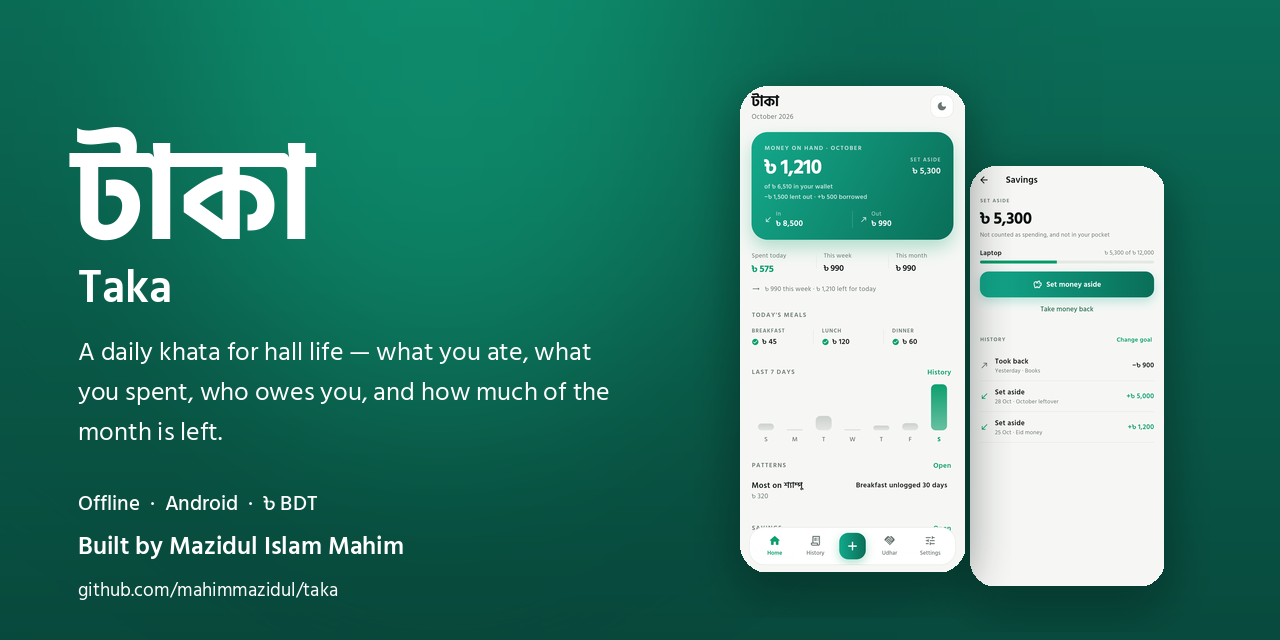
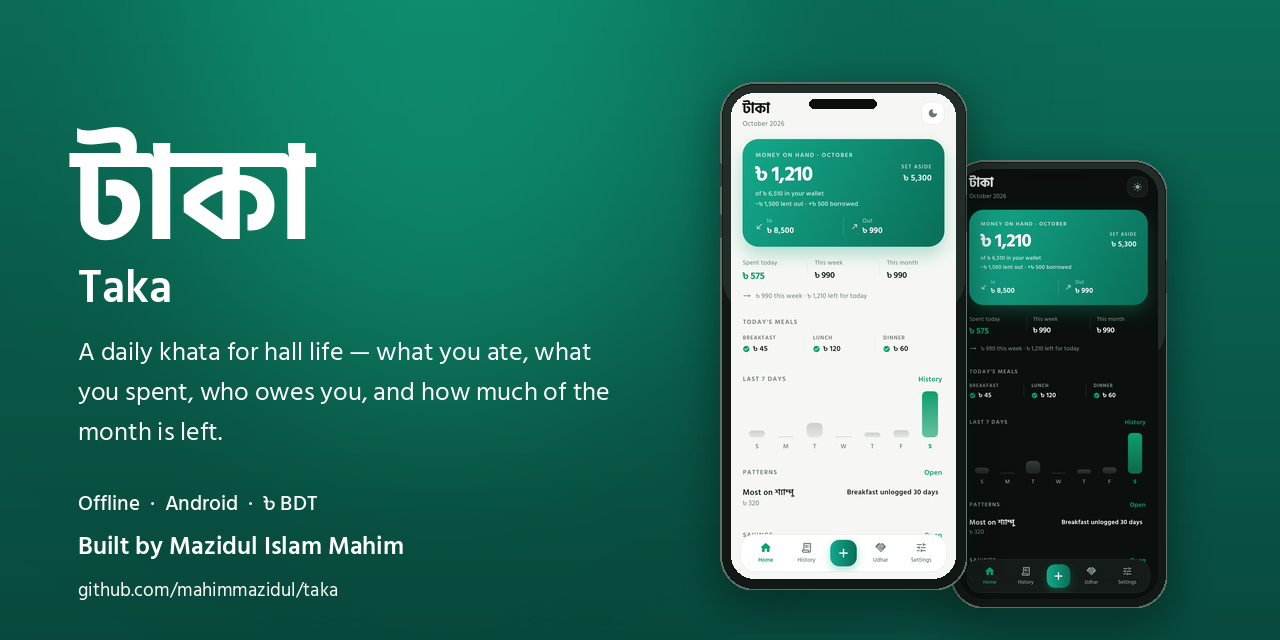
docs: মুদি as a group, and a social preview with real phones
README: মুদি becomes its own row in the category table with its seven items, the
"three standalone items" line becomes two, and the picker screenshot joins the
gallery. The changelog gains v1.11.0 and now runs 1.10.0 → 1.11.0 in order.

Social preview, drawn again because a bare rounded screenshot reads as a picture
of a screen rather than the handset it runs on:

- real phone bodies — near-black bezel with a highlight along the top edge, the
  island, side buttons, a clipped screen and a soft drop shadow;
- two of them, two modes: the bright card and the dark one side by side, so the
  card proves both without a caption claiming it;
- still generated from the committed goldens, so it can never show a UI the app
  does not have.

`python3 tool/make_social_preview.py`.

Changed region(s): [[0.5625, 0.125, 0.9375, 0.9688], [0.6875, 0.5, 0.7188, 0.5625]]

diff --git a/tool/make_social_preview.py b/tool/make_social_preview.py
@@ -59,26 +59,77 @@ def glow(canvas: Image.Image) -> None:
     canvas.alpha_composite(layer)
 
 
-def phone(path: pathlib.Path, height: int, radius: int) -> Image.Image:
-    """A screenshot in a rounded frame with a soft shadow, the way a phone looks."""
+def phone(path: pathlib.Path, height: int, radius: int = 34) -> Image.Image:
+    """A screenshot inside a phone body: bezel, island, side buttons, shadow.
+
+    A bare rounded screenshot on a green field reads as a picture of a screen; the
+    bezel and the island are what make it read as the handset the app runs on.
+    """
     shot = Image.open(path).convert("RGBA")
+    bezel = max(7, round(height * 0.022))
     width = round(shot.width * height / shot.height)
     shot = shot.resize((width, height), Image.LANCZOS)
 
-    mask = Image.new("L", shot.size, 0)
-    ImageDraw.Draw(mask).rounded_rectangle((0, 0, width, height), radius, fill=255)
-    shot.putalpha(mask)
+    body_w, body_h = width + bezel * 2, height + bezel * 2
+    body = Image.new("RGBA", (body_w, body_h), (0, 0, 0, 0))
+    draw = ImageDraw.Draw(body)
 
-    pad = 46
-    shadow = Image.new("RGBA", (width + pad * 2, height + pad * 2), (0, 0, 0, 0))
-    ImageDraw.Draw(shadow).rounded_rectangle(
-        (pad, pad + 16, pad + width, pad + height + 16),
-        radius,
-        fill=(4, 40, 32, 120),
+    # The handset: near-black, with a faint highlight along the top edge so the
+    # frame does not look like a flat sticker.
+    draw.rounded_rectangle((0, 0, body_w, body_h), radius, fill=(18, 24, 22, 255))
+    draw.rounded_rectangle(
+        (0, 0, body_w, body_h), radius, outline=(96, 112, 105, 255), width=2
     )
-    shadow = shadow.filter(ImageFilter.GaussianBlur(22))
-    shadow.alpha_composite(shot, (pad, pad))
-    return shadow
+    draw.rounded_rectangle(
+        (3, 3, body_w - 3, body_h * 0.45),
+        radius - 3,
+        fill=(34, 44, 40, 255),
+    )
+    draw.rounded_rectangle(
+        (3, body_h * 0.45, body_w - 3, body_h - 3),
+        radius - 3,
+        fill=(18, 24, 22, 255),
+    )
+
+    # Screen, clipped to its own rounding.
+    mask = Image.new("L", shot.size, 0)
+    screen_radius = max(6, radius - bezel)
+    ImageDraw.Draw(mask).rounded_rectangle(
+        (0, 0, width - 1, height - 1), screen_radius, fill=255
+    )
+    body.paste(shot, (bezel, bezel), mask)
+
+    # The island, and the two side buttons that make a phone a phone.
+    island_w, island_h = round(width * 0.30), max(8, round(height * 0.021))
+    island = Image.new("RGBA", (island_w, island_h), (0, 0, 0, 0))
+    ImageDraw.Draw(island).rounded_rectangle(
+        (0, 0, island_w - 1, island_h - 1), island_h // 2, fill=(10, 13, 12, 255)
+    )
+    body.alpha_composite(
+        island, (bezel + (width - island_w) // 2, bezel + round(height * 0.012))
+    )
+    for i, (side, length, offset) in enumerate(
+        (("left", 0.045, 0.16), ("left", 0.045, 0.26), ("right", 0.075, 0.22))
+    ):
+        btn_h = round(body_h * length)
+        btn_w = max(3, round(body_w * 0.012))
+        y = round(body_h * offset)
+        x = -btn_w + 1 if side == "left" else body_w - 1
+        draw.rounded_rectangle(
+            (x, y, x + btn_w, y + btn_h), btn_w // 2, fill=(58, 70, 65, 255)
+        )
+
+    # Soft drop shadow under the whole handset.
+    pad = 44
+    out = Image.new("RGBA", (body_w + pad * 2, body_h + pad * 2), (0, 0, 0, 0))
+    ImageDraw.Draw(out).rounded_rectangle(
+        (pad, pad + 14, pad + body_w, pad + body_h + 14),
+        radius,
+        fill=(3, 30, 24, 130),
+    )
+    out = out.filter(ImageFilter.GaussianBlur(20))
+    out.alpha_composite(body, (pad, pad))
+    return out
 
 
 def main() -> None:
@@ -88,10 +139,12 @@ def main() -> None:
     # ── phones on the right, inside the frame ────────────────────────────────
     # Both fit entirely: a card cropped mid-screen looks like a mistake, not a
     # design. The extra 46 px each side is the shadow's padding.
-    back = phone(SHOTS / "savings.png", height=420, radius=26)
-    front = phone(SHOTS / "home_light.png", height=486, radius=28)
-    canvas.alpha_composite(back, (924, 120))
-    canvas.alpha_composite(front, (694, 40))
+    # Two handsets, two modes: the bright card and the dark one, side by side so
+    # the card shows both without a caption claiming it.
+    dark = phone(SHOTS / "home_dark.png", height=430)
+    light = phone(SHOTS / "home_light.png", height=486)
+    canvas.alpha_composite(dark, (906, 116))
+    canvas.alpha_composite(light, (676, 38))
 
     draw = ImageDraw.Draw(canvas)
 

diff --git a/README.md b/README.md
@@ -12,8 +12,8 @@ much of the month is left.
 ![Flutter](https://img.shields.io/badge/Flutter-3.47-02569B?logo=flutter&logoColor=white)
 ![Dart](https://img.shields.io/badge/Dart-3.13-0175C2?logo=dart&logoColor=white)
 ![Android](https://img.shields.io/badge/Android-API%2021%2B-3DDC84?logo=android&logoColor=white)
-![Tests](https://img.shields.io/badge/tests-120%20passing-0E9F6E)
-[![Download APK](https://img.shields.io/badge/download-v1.10.2%20APK-0E9F6E?logo=android&logoColor=white)](https://github.com/mahimmazidul/taka/releases/latest)
+![Tests](https://img.shields.io/badge/tests-123%20passing-0E9F6E)
+[![Download APK](https://img.shields.io/badge/download-v1.11.0%20APK-0E9F6E?logo=android&logoColor=white)](https://github.com/mahimmazidul/taka/releases/latest)
 [![Build & Release](https://github.com/mahimmazidul/taka/actions/workflows/release.yml/badge.svg)](https://github.com/mahimmazidul/taka/actions/workflows/release.yml)
 
 ---
@@ -59,6 +59,10 @@ refreshed whenever the UI changes. No mockups.
 | Patterns | Dining out |
 |---|---|
 | ![Patterns](docs/screenshots/patterns.png) | ![Fast food](docs/screenshots/dining_out.png) |
+
+| মুদি · Groceries |
+|---|
+| ![Groceries](docs/screenshots/groceries.png) |
 
 | Settings, updates and links | Licences |
 |---|---|
@@ -129,14 +133,18 @@ in today's meals; a group itself never takes a meal tag.
 | উপহার ও পরিবার · Gifts & family | উপহার দেওয়া, দান, পরিবার |
 | ফি ও জরিমানা · Fees & fines | পরীক্ষা ফি, লাইব্রেরি ফি, জরিমানা |
 
-Plus three that sit on the top row themselves — **মুদি · Groceries**, **লন্ড্রি ·
+Plus two that sit on the top row themselves with no sub-list — **লন্ড্রি ·
 Laundry**, **অন্যান্য · Other** — and six income sources (বাসা থেকে, টিউশন, বৃত্তি,
 ফ্রিল্যান্স, উপহার, অন্যান্য).
 
-**মুদি is one tap, on purpose.** A bottle of tomato sauce for the room is a
-purchase, not a dish and not a meal: it sits on the top row instead of inside a
-food group, it counts in the month like any other spend, and it never asks for a
-breakfast/lunch/dinner tag.
+| মুদি · Groceries | সস, তেল, লবণ-মসলা, চিনি, নুডলস প্যাকেট, ব্রেড, অন্যান্য |
+
+**মুদি is its own group, on purpose.** A bottle of tomato sauce for the room is a
+purchase, not a dish and not a meal: it gets its own group and a sub-list instead
+of being filed under a food group, it counts in the month and in *Where it went*,
+and nothing inside it asks for a breakfast/lunch/dinner tag. One tap from the top
+row — and the row scrolls itself to the group you used last, so it is never the
+chip you cannot find.
 
 **Search the whole ledger, in either script.** Type a note, or a category name in
 English or Bangla — "rice" finds ভাত, and "ভাত" finds the entry whose note says
@@ -294,7 +302,7 @@ lib/
 │   ├── clock.dart             the one place DateTime.now() lives
 │   └── app_info.dart          name, version, author — read by About
 ├── constants/
-│   ├── default_categories.dart    15 groups, 4 standalone items, 6 income sources
+│   ├── default_categories.dart    16 groups, 2 standalone items, 6 income sources
 │   ├── default_subcategories.dart the 90+ items inside those groups
 │   └── category_icons.dart        70 icon keys, the picker subset, colour swatches
 ├── models/                    transaction_entry (+meal), app_category (+parent),
@@ -328,7 +336,7 @@ state-management package, no chart package, no analytics.
 The app needs the network for exactly one thing — *Check for updates* — and never
 on its own. Nothing is uploaded, and every screen works with the radio off.
 
-### Data model (SQLite `taka.db`, schema v8)
+### Data model (SQLite `taka.db`, schema v9)
 
 ```sql
 categories(id, name, name_bn, icon, color, kind, budget_minor,
@@ -377,13 +385,13 @@ be unforgivable:
 
 `test/database_test.dart` builds a v2 database by hand, reopens it with the current
 code and asserts the old entry, its category and its budget all survived — now
-through six upgrades, v2 → v8.
+through seven upgrades, v2 → v9.
 
 ### Tests
 
-120 tests, all offline (16 format and helper rules, 10 period maths, 13 meal rules,
-13 carry-over and search, 11 savings pot, 6 insights, 14 database, 14 screen,
-23 golden):
+123 tests, all offline (16 format and helper rules, 10 period maths, 13 meal rules,
+13 carry-over and search, 13 savings and groceries, 6 insights, 14 database,
+14 screen, 24 golden):
 
 | File | Covers |
 |---|---|
@@ -392,7 +400,7 @@ through six upgrades, v2 → v8.
 | `test/period_stats_test.dart` | the day / week / month / year maths behind the breakdowns: empty days kept, income kept apart from spending, the month list starting where the history starts, a day's entries newest first |
 | `test/food_logic_test.dart` | the meal rule: which categories may take a meal, that a non-food entry never lands in a meal total even if an old row stored one, why noodles and egg exist twice, and that `today` really resets at midnight |
 | `test/insights_test.dart` | the Patterns maths: a meal day is missed only when nothing was logged for it, today counts only for meals already past, a non-food entry never counts, ranking, rhythm, and that 1.10.0 is newer than 1.9.0 |
-| `test/savings_test.dart` | the pot: ৳ 1,000 in the wallet with ৳ 200 aside leaves ৳ 800 spendable and ৳ 1,000 still in the wallet, the nudge follows the spendable figure, meals and the carry-over do not move, taking it back reverses it exactly, the toggle gives the money back to the pocket, the optional goal is clearable, and মুদি counts as spending but never as a meal |
+| `test/savings_test.dart` | the pot: ৳ 1,000 in the wallet with ৳ 200 aside leaves ৳ 800 spendable and ৳ 1,000 still in the wallet, the nudge follows the spendable figure, meals and the carry-over do not move, taking it back reverses it exactly, the toggle gives the money back to the pocket, the optional goal is clearable, and মুদি is a group on the top row whose seven items are all non-food, reach the database under it, and roll up to it without touching a meal |
 | `test/carry_search_test.dart` | the real case — money in on 30 October, spent the same day, still there on 1 November; two months of leftovers both carrying; that a resume on the same day does not reload but a new day does; udhar moving money on hand and settling reversing it; and search: by note in any month, by English category name, by Bangla category name |
 | `test/screens_test.dart` | the whole app at 320 / 360 / 414 / 768 widths **and in landscape**, 1.3× text scale, tab switching, adding an entry end-to-end, the meal row disappearing for a face wash, the period breakdowns and their day sheet, dark-mode toggle, and the savings pot switched on from Settings and moved through its own screen |
 | `test/golden_test.dart` | every screenshot in this README |
@@ -431,6 +439,16 @@ licence regardless of the code's.
 - Icons: Material Symbols via `flutter/material`.
 
 ## Changelog
+
+- **v1.11.0** — **মুদি gets its sub-list.** 1.10.0 shipped Groceries as a single
+  item, which can only ever say "৳ 120 groceries": it is a group now — সস, তেল,
+  লবণ-মসলা, চিনি, নুডলস প্যাকেট, ব্রেড, অন্যান্য — still one tap from the top row,
+  still not food, so nothing inside it asks for a meal tag. Schema v9 flips the old
+  row from item to container and keeps its history. Also fixed the reason it looked
+  missing: the group chip row is a horizontal scroll and never followed the group
+  you had opened, so the selected group could sit off-screen with its items visible
+  below it. It now scrolls itself to that chip — the row is a plain `Row` so every
+  chip exists to be scrolled to.
 
 - **v1.10.2** — the hero shows all three numbers, because they are three
   different facts. ৳ 1,000 in the wallet with ৳ 200 set aside reads **৳ 800** big,
